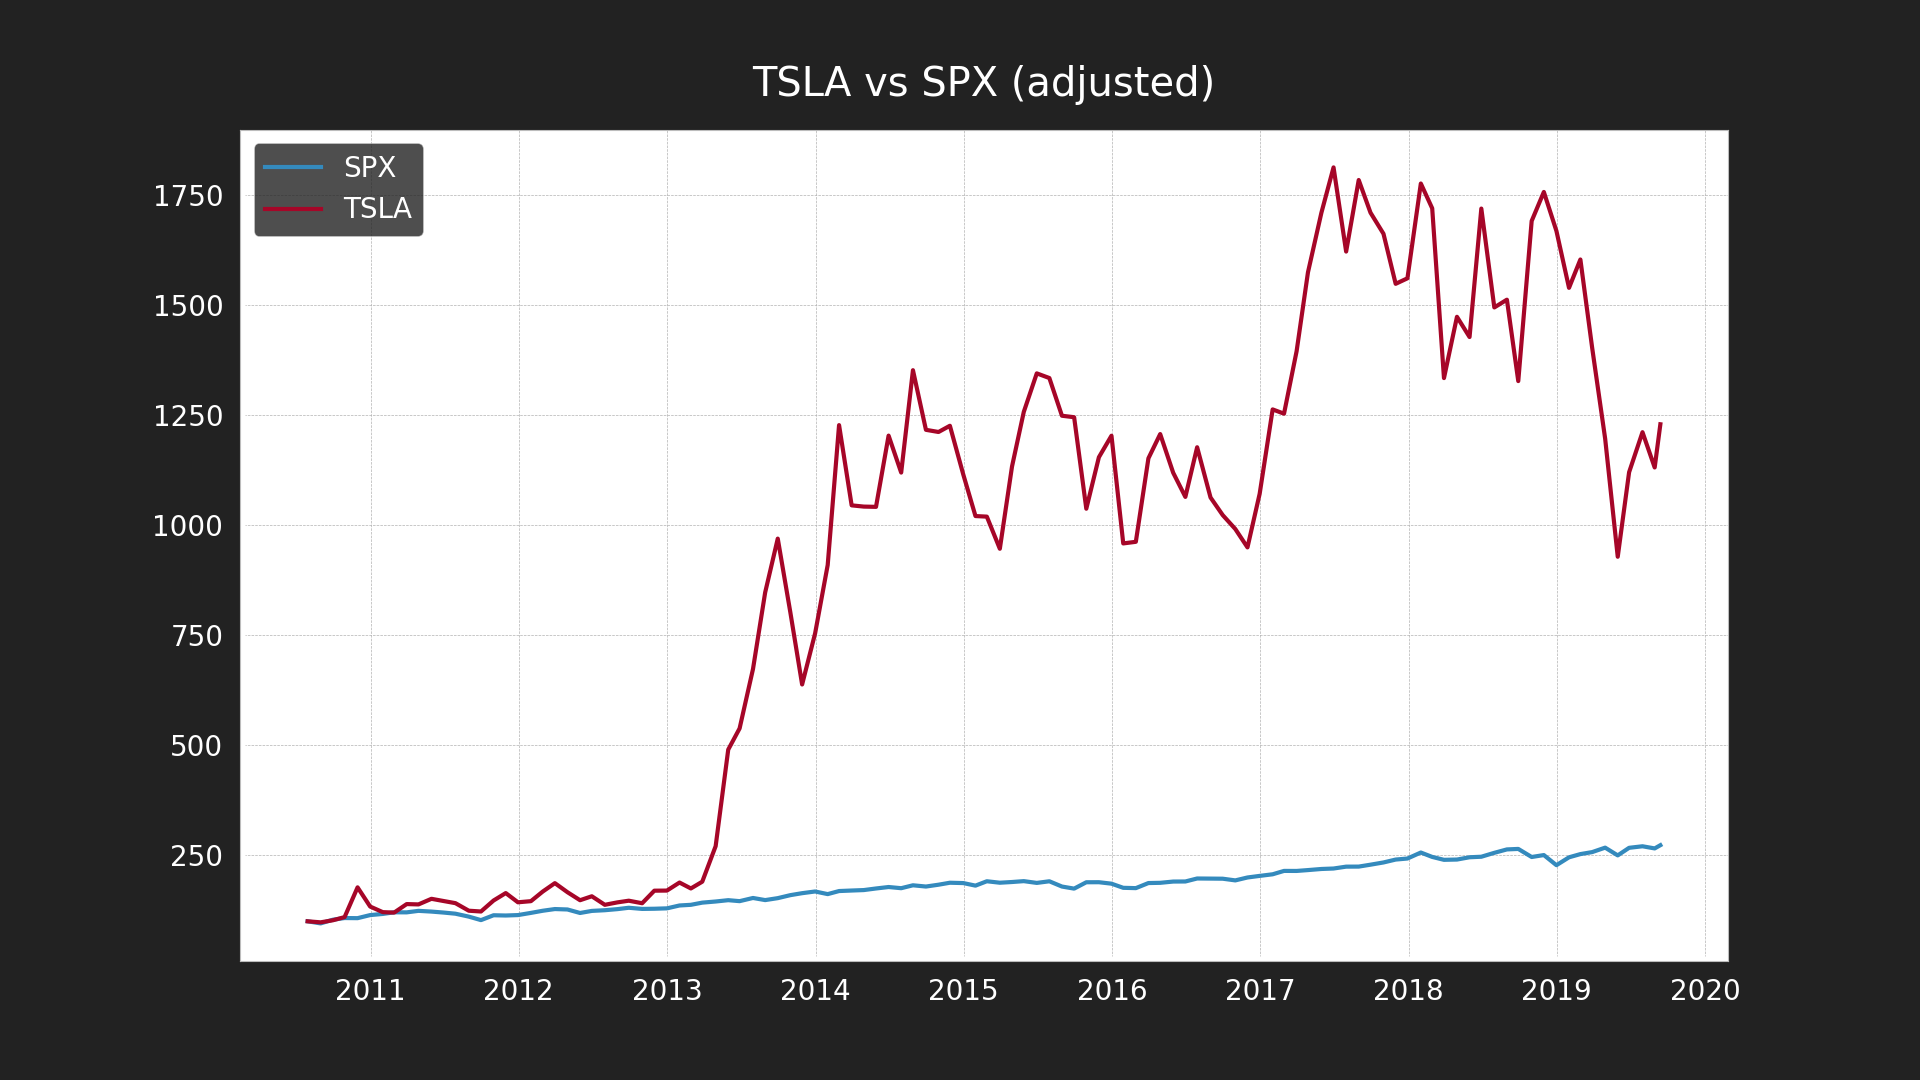
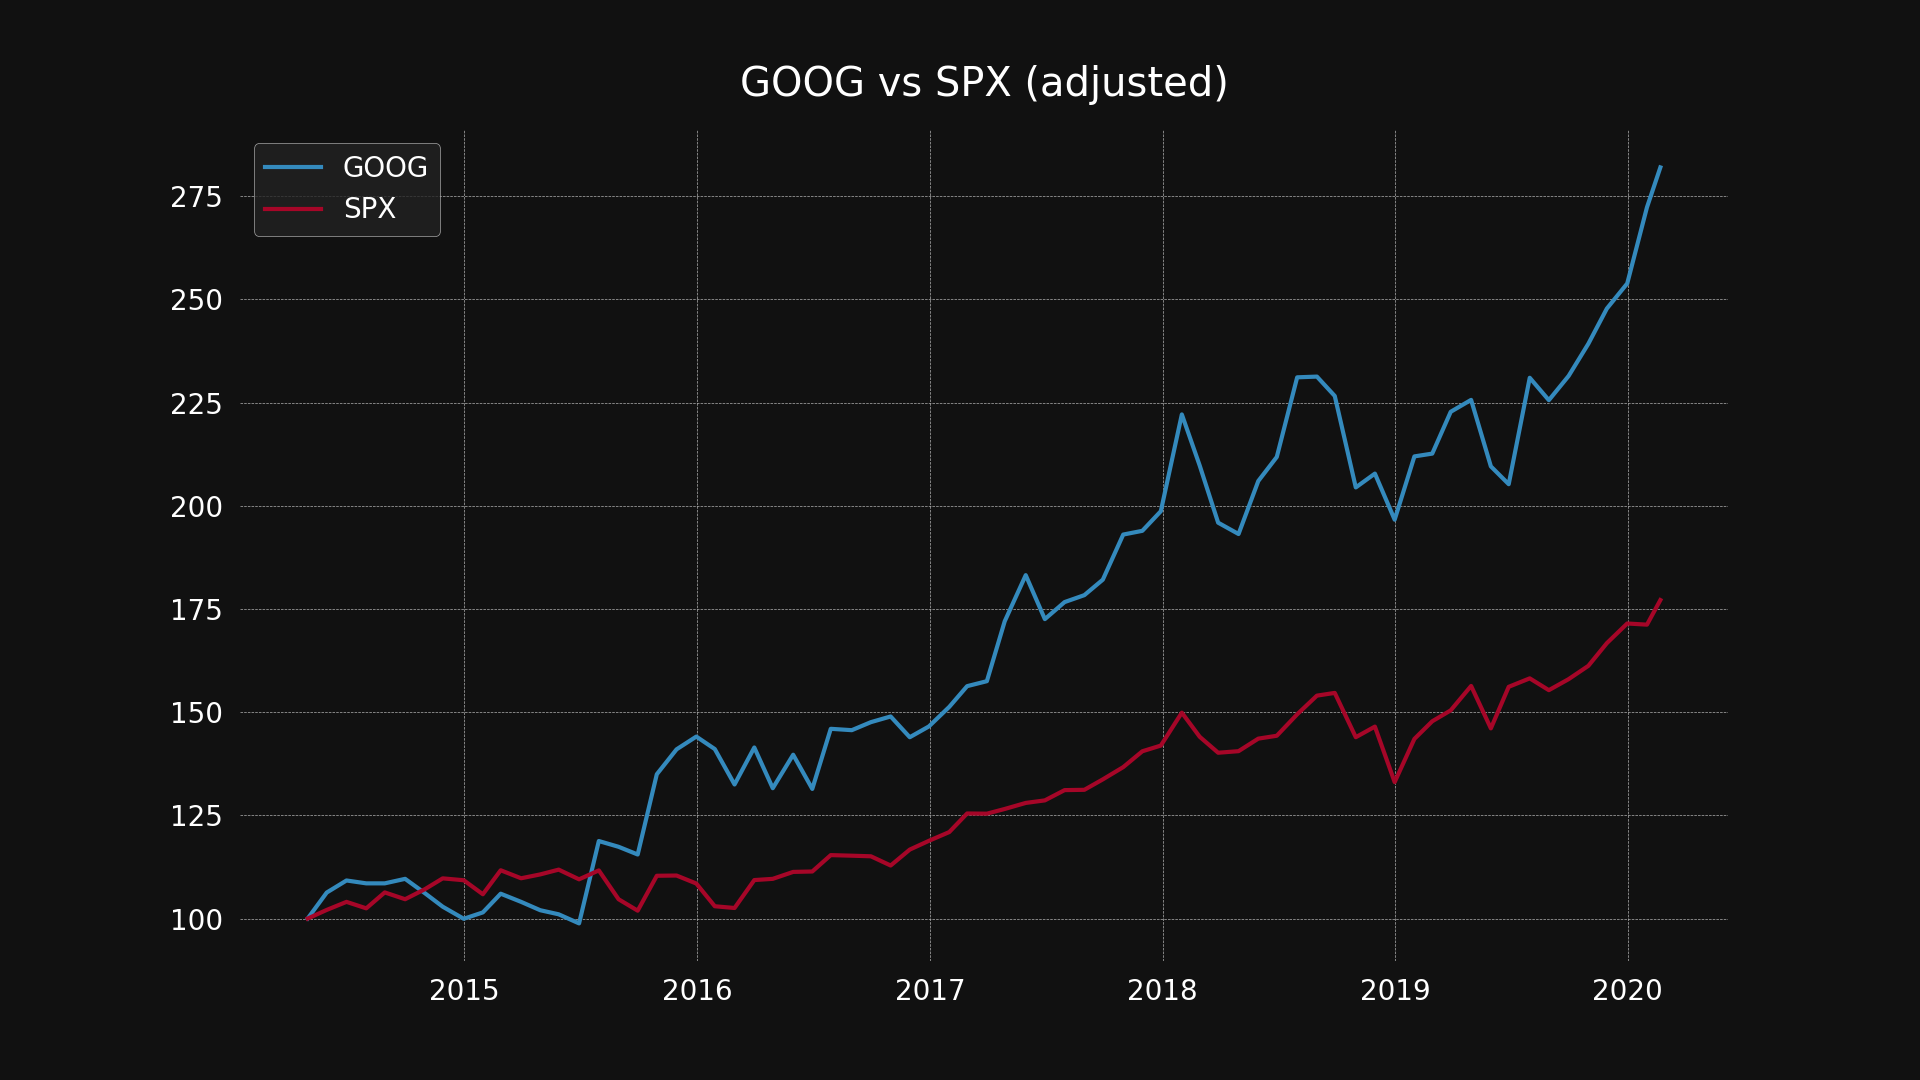
Refactor asset return comparison script

diff --git a/compare.py b/compare.py
@@ -1,51 +1,62 @@
 import sys
 import pathlib
-import numpy as np
 import matplotlib.pyplot as plt
+from typing import List
 
 import alpha_vantage
+from alpha_vantage import Interval, AssetPrice
 import plot_style
 
 
-def compare(stock_symbol, benchmark_symbol, interval='MONTHLY', adjusted=True):
-    stock_data = alpha_vantage.get_stock_price_history(
-        stock_symbol, interval, adjusted)
+def compare(symbol_1: str,
+            symbol_2: str,
+            interval=Interval.MONTHLY,
+            adjusted=True):
+    history_1 = alpha_vantage.get_stock_price_history(
+        symbol_1, interval, adjusted)
 
-    benchmark_data = alpha_vantage.get_stock_price_history(
-        benchmark_symbol, interval, adjusted)
+    history_2 = alpha_vantage.get_stock_price_history(
+        symbol_2, interval, adjusted)
 
-    stock_data = {k: v for (k, v) in stock_data.items()
-                  if k in benchmark_data.keys()}
+    history_1 = [v for v in history_1 if v.date in list(
+        i.date for i in history_2)]
 
-    benchmark_data = {
-        k: v for (k, v) in benchmark_data.items() if k in stock_data.keys()}
+    history_2 = [v for v in history_2 if v.date in list(
+        i.date for i in history_1)]
 
-    stock_data = adjust_values(stock_data)
-    benchmark_data = adjust_values(benchmark_data)
+    adjust_values(history_1, start=100.0)
+    adjust_values(history_2, start=100.0)
 
     plot_style.line()
 
-    plt.plot(list(benchmark_data.keys()), list(benchmark_data.values()), label=benchmark_symbol)
-    plt.plot(list(stock_data.keys()), list(stock_data.values()), label=stock_symbol)
+    plt.plot(
+        list(i.date for i in history_1),
+        list(i.price for i in history_1),
+        label=symbol_1.upper())
 
-    plt.title(f'{stock_symbol} vs {benchmark_symbol} (adjusted)')
+    plt.plot(
+        list(i.date for i in history_2),
+        list(i.price for i in history_2),
+        label=symbol_2.upper())
+
+    title = f'{symbol_1.upper()} vs {symbol_2.upper()}'
+    title = title + ' (adjusted)' if adjusted == True else title
+    plt.title(title)
     plt.legend()
 
     pathlib.Path('img/compare').mkdir(parents=True, exist_ok=True)
-    plt.savefig(f'img/compare/{stock_symbol}-{benchmark_symbol}.png')
+    plt.savefig(f'img/compare/{symbol_1.lower()}-{symbol_2.lower()}.png')
     plt.close()
 
 
-def adjust_values(data, start=100.0):
+def adjust_values(data: List[AssetPrice], start: float):
     scale_factor = None
 
-    for k, v in sorted(data.items()):
+    for v in data:
         if scale_factor == None:
-            scale_factor = v / start
+            scale_factor = v.price / start
 
-        data[k] = v / scale_factor
-
-    return data
+        v.price = v.price / scale_factor
 
 
 compare(sys.argv[1], sys.argv[2])

diff --git a/plot_style.py b/plot_style.py
@@ -40,6 +40,7 @@ def apply_common_styles():
     ax.tick_params(axis=u'both', which=u'both', length=0)
     ax.yaxis.set_major_formatter(
         tkr.FuncFormatter(lambda x, p: format(int(x), ',')))
+    #ax.grid(False)
 
 
 def line():

diff --git a/README.md b/README.md
@@ -47,7 +47,7 @@ python variance.py tsla
 ## Comparing Returns
 
 ```bash
-python compare.py TSLA SPX
+python compare.py goog spx
 ```
 
 ![Comparing Returns](/example-images/compare.png)
